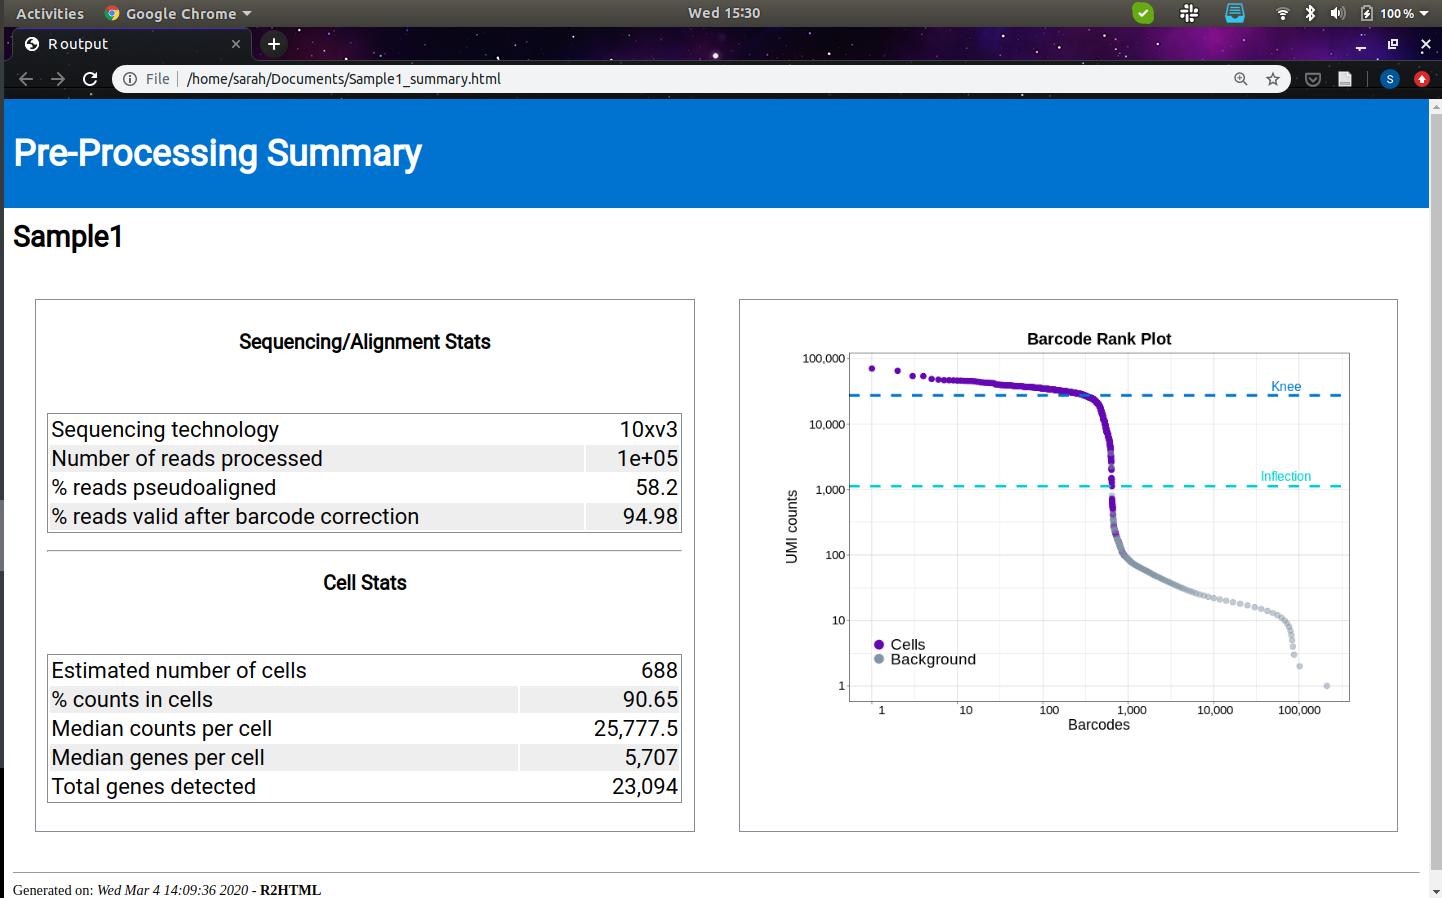
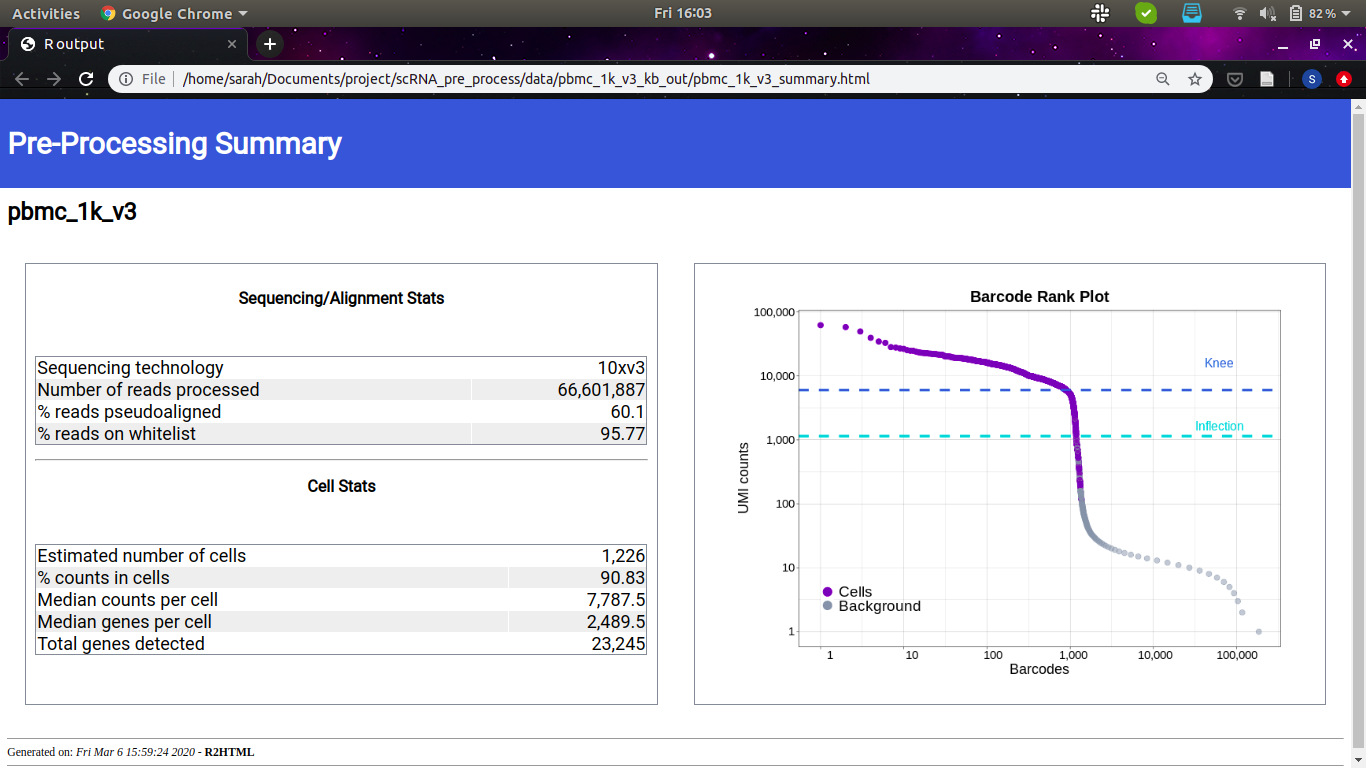
final updates

diff --git a/README.md b/README.md
@@ -2,7 +2,7 @@
 
 This repository contains the scripts I used for alignment and quantification of 10X Genomics Chromium single-cell gene expression data using the kallisto|bustools pipeline.  
 
-10X Genomics provide their own software - [Cell Ranger](https://support.10xgenomics.com/single-cell-gene-expression/software/pipelines/latest/what-is-cell-ranger) - for pre-processing scRNA-seq data generated using one of their protocols. Cell Ranger is well-documented and really easy to run but it's also quite slow. Kallisto|bustools [[1,2](https://github.com/Sarah145/scRNA_pre_process#references)] is an alternative that pseudo-aligns reads to equivalence classes (more details can be found in this [preprint](https://www.biorxiv.org/content/10.1101/673285v2) by Melsted, Booeshaghi et al., BioRxiv 2019), which really speeds up the process. According to the authors, their pipeline is "*up to 51 times faster than Cell Ranger*" and apparently it's even [better for the environment](https://twitter.com/lpachter/status/1217148183052111872?s=20)! The pipeline is modular which makes it easier to hack but the authors have also recently released [kb-python](https://github.com/pachterlab/kb_python) - a wrapper around the pipeline that really simplifies the workflow. For these reasons, I decided to use kallisto|bustools to pre-process my scRNA-seq reads but I encountered a few hurdles along the way which I've described here. Also, I found that the results that kallisto|bustools returns are a bit scarse, compared to Cell Ranger which returns too much information, so this is my Goldilocks solution!
+10X Genomics provide their own software - [Cell Ranger](https://support.10xgenomics.com/single-cell-gene-expression/software/pipelines/latest/what-is-cell-ranger) - for pre-processing scRNA-seq data generated using one of their protocols. Cell Ranger is well-documented and really easy to run but it's also quite slow. Kallisto|bustools [[1,2](https://github.com/Sarah145/scRNA_pre_process#references)] is an alternative that pseudo-aligns reads to equivalence classes (more details can be found in this [preprint](https://www.biorxiv.org/content/10.1101/673285v2) by Melsted, Booeshaghi et al., BioRxiv 2019), which really speeds up the process. According to the authors, their pipeline is "*up to 51 times faster than Cell Ranger*" and apparently it's even [better for the environment](https://twitter.com/lpachter/status/1217148183052111872?s=20)! The pipeline is modular which makes it easier to hack but the authors have also recently released [kb-python](https://github.com/pachterlab/kb_python) - a wrapper around the pipeline that really simplifies the workflow. For these reasons, I decided to use kallisto|bustools to pre-process my scRNA-seq reads but I encountered a few hurdles along the way which I've described here. Also, I found that the results that kallisto|bustools returns are a bit sparse, compared to Cell Ranger which returns too much information, so this is my Goldilocks solution!
 
 <p align="center">
 
@@ -34,10 +34,9 @@ Given that my cells were sequenced with the 10X genomics protocol, the RNAs shou
 
 </p>
 
-The Cell Ranger reference contains much fewer biotypes but includes some biotypes that are not included in the Ensembl gtf, such as lincRNA (which is polyadenylated). The reference files that Cell Ranger uses for humans (hg38) can be downloaded from [their website](https://support.10xgenomics.com/single-cell-gene-expression/software/downloads/latest) and the gtf file can be found within the downloaded folder:  `refdata-cellranger-GRCh38-3.0.0/genes/genes.gtf` (there's also a copy of it in this repository: [cellranger_genes.gtf.gz](https://github.com/Sarah145/scRNA_pre_process/blob/master/ref/cellranger_genes.gtf.gz)). This gtf contains annotations for ~33,500 genes which is much more reasonable so I decided to use this gtf to build my reference with `kb ref` (see [build_ref.sh](https://github.com/Sarah145/scRNA_pre_process/blob/master/scripts/build_ref.sh) script in this repository).  Ideally, the `kb ref -d` option would allow you to download a pre-built index that was built using the Cell Ranger gtf but alas...
+The Cell Ranger reference contains much fewer biotypes but includes some biotypes that are not included in the Ensembl gtf, such as lincRNA (which is polyadenylated). The reference files that Cell Ranger uses for humans (hg38) can be downloaded from [their website](https://support.10xgenomics.com/single-cell-gene-expression/software/downloads/latest) and the gtf file can be found within the downloaded folder:  `refdata-cellranger-GRCh38-3.0.0/genes/genes.gtf` (there's also a copy of it in this repository: [cellranger_genes.gtf.gz](https://github.com/Sarah145/scRNA_pre_process/blob/master/ref/cellranger_genes.gtf.gz)). This gtf contains annotations for ~33,500 genes which is much more reasonable so I decided to use this gtf to build my reference with `kb ref` (see [build_ref.sh](https://github.com/Sarah145/scRNA_pre_process/blob/master/scripts/build_ref.sh) script in this repository).  Ideally, the `kb ref -d` option would allow you to download a pre-built index that was built using the Cell Ranger gtf but...
 
 <p align="center">
-
 <img src="https://github.com/Sarah145/scRNA_pre_process/blob/master/imgs/alas.gif?raw=true">
 
 </p>
@@ -79,7 +78,7 @@ The cells_x_genes.mtx file is (as the name would suggest) a sparse matrix of cou
 
 #### Step 3: Filter the raw count matrix
 
-The count matrix that was generated in the previous step is a raw count matrix, meaning that many of the 'cells' in this file are probably not cells but correspond to empty droplets where ambient RNA in the input cell suspension has been captured in a droplet and tagged with a barcode. Barcodes from these 'cells' will have a very low number of counts associated with them so Cell Ranger filters them out by determining an inflection point in the number of counts per barcode, above which barcodes are assumed to be tagging actual cells and not empty droplets. DropletUtils provides another handy function - `emptyDrops()` - for determining which barcodes correspond to actual cells. [This method](https://genomebiology.biomedcentral.com/articles/10.1186/s13059-019-1662-y) calls cells by detecting significant deviations from the expression profile of the ambient solution and so it retains distinct cell types (such as smaller cells that have smaller libraries) that would have been discarded by other methods. For this reason I decided to use `emptyDrops()` to filter my raw count matrix. After running my [filter_counts.R](https://github.com/Sarah145/scRNA_pre_process/blob/master/scripts/filter_counts.R) script, the results directory should contain a counts_filtered directory with the filtered matrix.mtx file and corresponding genes.tsv and barcodes.tsv files:
+The count matrix that was generated in the previous step is a raw count matrix, meaning that many of the 'cells' in this file are probably not cells but correspond to empty droplets where ambient RNA in the input cell suspension has been captured in a droplet and tagged with a barcode. Barcodes from these 'cells' will have a very low number of counts associated with them so one approach to filtering would be to determine an inflection point in the number of counts per barcode, above which barcodes are assumed to be tagging actual cells and not empty droplets. DropletUtils provides another handy function - `emptyDrops()` - for determining which barcodes correspond to actual cells. [This method](https://genomebiology.biomedcentral.com/articles/10.1186/s13059-019-1662-y) calls cells by detecting significant deviations from the expression profile of the ambient solution and so it retains distinct cell types (such as smaller cells that have smaller libraries) that would have been discarded by other methods. For this reason I decided to use `emptyDrops()` to filter my raw count matrix. After running my [filter_counts.R](https://github.com/Sarah145/scRNA_pre_process/blob/master/scripts/filter_counts.R) script, the results directory should contain a counts_filtered directory with the filtered matrix.mtx file and corresponding genes.tsv and barcodes.tsv files:
 
 ```bash
 Sample1_kb_out/
@@ -109,7 +108,6 @@ The data is now officially pre-processed! :tada::tada:
 A feature of Cell Ranger that I particularly appreciate is that it ouputs a web_summary.html file (see [here](http://cf.10xgenomics.com/samples/cell-exp/3.0.0/pbmc_1k_v3/pbmc_1k_v3_web_summary.html) for example) which contains summary metrics about the pre-processing run and can give you an indication of potential problems with the data. `kb count` does output a  run_info.json and inspect.json file which contain some of the information but it's not really as aesthetically pleasing. My [get_summary.R](https://github.com/Sarah145/scRNA_pre_process/blob/master/scripts/get_summary.R) (along with [functions.R](https://github.com/Sarah145/scRNA_pre_process/blob/master/scripts/functions.R)) script reads in the run info from `kb count`, calculates some more run statistics (including a barcode rank plot) and outputs a pretty html summary of the run.
 
 <p align="center">
-
 <img src="https://github.com/Sarah145/scRNA_pre_process/blob/master/imgs/example_html_summary.png?raw=true">
 
 </p>
@@ -118,7 +116,7 @@ A feature of Cell Ranger that I particularly appreciate is that it ouputs a web_
 
 ### To reproduce this analysis...
 
-The best thing about kallisto|bustools is that it requires very little computing power compared to Cell Ranger so the times below represent how long it took to run each step on my own laptop (32 RAM, running Ubuntu 18.04), using [this](https://support.10xgenomics.com/single-cell-gene-expression/datasets/3.0.0/pbmc_1k_v3) sample dataset from 10X Genomics with ~1,000 cells. 
+The best thing about kallisto|bustools is that it requires very little computing power compared to Cell Ranger so the times below represent how long it took to run each step on my own laptop (32G RAM, running Ubuntu 18.04), using [this](https://support.10xgenomics.com/single-cell-gene-expression/datasets/3.0.0/pbmc_1k_v3) sample dataset from 10X Genomics with ~1,000 cells. 
 
 **1.** Clone this repository and navigate into it:
 
@@ -136,7 +134,7 @@ conda env create -f scRNA_pre_process.yml
 conda activate scRNA_pre_process
 ```
 
-:watch: ~ 2 mins
+:watch: ~ 5-10 mins
 
 **3.** Download all necessary files:
 
@@ -175,10 +173,10 @@ cd scripts
 
 ```bash
 # Assign a sample_id
-sample_id="Sample1"
+sample_id="pbmc_1k_v3"
 
 # Point to fastq files in R1/R2 pairs
-fastqs=("../data/Sample_L1_R1.fastq.gz" "../data/Sample1_L1_R2.fastq.gz" "../data/Sample1_L2_R1.fastq.gz" "../data/Sample1_L2_R2.fastq.gz") 
+fastqs=("../data/pbmc_1k_v3_S1_L001_R1_001.fastq.gz" "../data/pbmc_1k_v3_S1_L001_R2_001.fastq.gz" "../data/pbmc_1k_v3_S1_L002_R1_001.fastq.gz" "../data/pbmc_1k_v3_S1_L002_R2_001.fastq.gz")
 ```
 
 Then run the script from the command line:
@@ -192,7 +190,7 @@ Then run the script from the command line:
 **6.** Filter the raw count matrix by running the [filter_counts.R](https://github.com/Sarah145/scRNA_pre_process/blob/master/scripts/filter_counts.R) script from the command line and specifying the sample ID:
 
 ```bash
-./filter_counts.R Sample1
+./filter_counts.R pbmc_1k_v3
 ```
 
 :watch: ~ 5 mins
@@ -200,7 +198,7 @@ Then run the script from the command line:
 **7.** Generate a html summary of the run with the [get_summary.R](https://github.com/Sarah145/scRNA_pre_process/blob/master/scripts/get_summary.R) script:
 
 ```bash
-./get_summary.R Sample1
+./get_summary.R pbmc_1k_v3
 ```
 
 :watch: ~ 1 min
